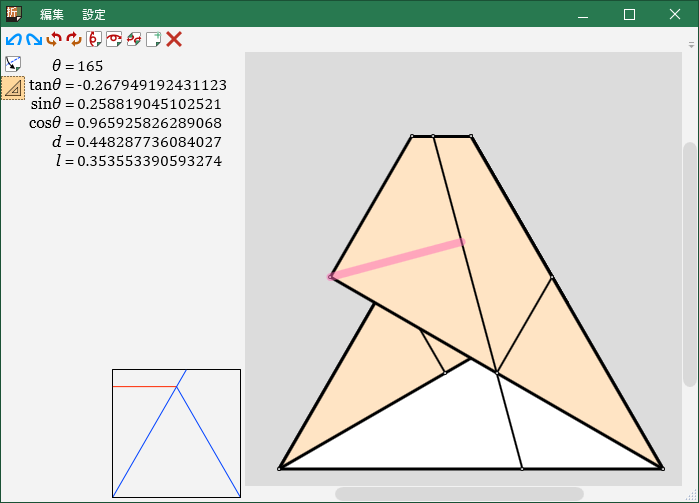
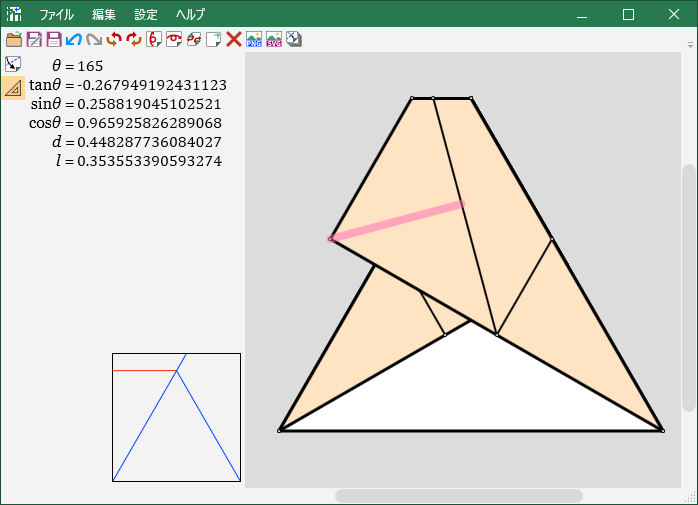
[update] manual

diff --git a/Documents/en/manual.md b/Documents/en/manual.md
@@ -1,6 +1,8 @@
 # Orimath
 
-target version: 0.6-beta.0
+TARGET VERSION: 1.0.0
+
+THIS IS TRANSLATED VERSION. ORIGINAL IS [JAPANESE](../ja/manual.md).
 
 * [Summary](#Summary)
 * [System requirements](#System-requirements)
@@ -31,22 +33,15 @@ Orimath is a math-focused *origami simulator.* You can fold paper with intuitive
 
 Orimath is not designed to be used primarily for making crease patterns and folding diagrams, but I plan to add useful features in the future.
 
-### Beta version supplement
-
-The available version is **beta version** .
-In the beta version, you cannot save or export files.
-
-In the official version, Orimath will support saving and loading projects, export in png format, svg format, and other software collaboration formats.
-
 ## System requirements
 
 | OS | Framework | Memory | Storage | CPU |
 | --- | --- | --- | --- | --- |
-| Windows 10 | .NET5 | > 60MB | > 5MB | unspecified |
+| Windows 10 | .NET5 | > 128MB | > 6MB | unspecified |
 
 # UI description
 
-![UI description](https://github.com/mino-ri/Orimath/blob/master/Documents/Images/view2.png?raw=true)
+![UI description](../Images/view2.png?raw=true)
 
 ### ① Origami view
 
@@ -58,7 +53,14 @@ Displays crease pattern of the current paper.
 
 ### ③ Measurement view
 
-Displays numerically information about selected point or line.
+Displays numerically information in the coordinate system with the lower left of the paper as the origin and the center of the paper as (0.5, 0.5) about selected point or line.
+
+| variable | means |
+| --- | --- |
+| *X, Y* | position of the selected point. |
+| *θ* | leftward angle with 0° at the horizontal of the selected line |
+| *d* | distance of the selected line from the origin |
+| *l* | length of the selected line |
 
 ### ④ Tools
 
@@ -68,11 +70,15 @@ Click on the buttons to switch tools.
 
 Click on the buttons to execute commands (e.g. undo, turn over).
 
+### ⑥ Operation navigation
+
+Displays operation navigations of folding tool.
+
 # Tools and commands
 
-## ![icon](https://github.com/mino-ri/Orimath/blob/master/Plugins/Orimath.Basics/Icons/fold.png?raw=true) Folding tool
+## ![icon](../../Plugins/Orimath.Basics/Icons/fold.png?raw=true) Folding tool
 
-![view](https://github.com/mino-ri/Orimath/blob/master/Documents/Images/view.png?raw=true)
+![view](../Images/view.png?raw=true)
 
 Use the left and right mouse buttons in combination with the `Ctrl` , `Shift` , and `Alt` keys. You can make a crease or fold the paper.
 
@@ -92,7 +98,7 @@ Numerically information about selection is displayed in **Measurement view**, it
 
 ### Make a crease (drag)
 
-![view](https://github.com/mino-ri/Orimath/blob/master/Documents/Images/fold1.gif?raw=true)
+![view](../Images/fold1.gif?raw=true)
 
 When you drag left from the *element* (a line or point) to the other element, a blue dotted line and an arrow will appear.
 If you release the mouse button while the **blue** dotted line is displayed, you **can** make a crease where the dotted line was. If you release the button when only the **gray** dotted line is displayed, you **cannot** make a crease.
@@ -101,26 +107,26 @@ In this way, Orimath shows the predicted fold as a fold diagram while dragging, 
 
 ### Fold (Shift key)
 
-![view](https://github.com/mino-ri/Orimath/blob/master/Documents/Images/fold3.png?raw=true)
+![view](../Images/fold3.png?raw=true)
 
 When you hold down `Shift` key and drag, a one-way blue arrow will appear. Hold down the `Shift` key and release the mouse button, to fold paper in the direction of the arrow.
 The folding direction is the same as the dragging direction.
 
 ### Make a crease in only the front-most paper (Ctrl key)
 
-![view](https://github.com/mino-ri/Orimath/blob/master/Documents/Images/fold2.png?raw=true)
+![view](../Images/fold2.png?raw=true)
 
 Hold down `Ctrl` key and drag, to make a crease in only the front-most paper.
 
 ### Fold only the front-most paper (Ctrl key + Shift key)
 
-![view](https://github.com/mino-ri/Orimath/blob/master/Documents/Images/fold4.png?raw=true)
+![view](../Images/fold4.png?raw=true)
 
 By combining the `Shift` key and `Ctrl` key, you can fold (instead of making a crease) only the front-most paper.
 
 ### Ignore alignments and fold freely (Alt key)
 
-![view](https://github.com/mino-ri/Orimath/blob/master/Documents/Images/fold5.png?raw=true)
+![view](../Images/fold5.png?raw=true)
 
 In Orimath, only aligned fold can be usually confirmed. Press `Alt` key to ignore alignments and fold freely.
 You can use it in combination with the `Shift` and/or `Ctrl` keys.
@@ -131,13 +137,13 @@ Drag left from element to element, to fold so that two elements overlap.
 
 #### Fold the point to the point
 
-![view](https://github.com/mino-ri/Orimath/blob/master/Documents/Images/axiom2.png?raw=true)
+![view](../Images/axiom2.png?raw=true)
 
 Drag left from point to point, to fold so that two points overlap.
 
 #### Fold the line to the line
 
-![view](https://github.com/mino-ri/Orimath/blob/master/Documents/Images/axiom3.png?raw=true)
+![view](../Images/axiom3.png?raw=true)
 
 Drag left from line to line, to fold so that two lines overlap.
 
@@ -146,26 +152,26 @@ The fold with the closest overlap to the dragged position will be selected from 
 
 #### Fold the point to the line
 
-![view](https://github.com/mino-ri/Orimath/blob/master/Documents/Images/axiom8.png?raw=true)
+![view](../Images/axiom8.png?raw=true)
 
 Drag left from point to line or line to point, to fold so that the point and line overlap.
 There are variations on this folding method, and the behavior changes when a point or line is selected before dragging.
 
 ---
 
-![view](https://github.com/mino-ri/Orimath/blob/master/Documents/Images/axiom5.png?raw=true)
+![view](../Images/axiom5.png?raw=true)
 
 When a point is selected, to fold **through that point** .
 
 ---
 
-![view](https://github.com/mino-ri/Orimath/blob/master/Documents/Images/axiom7.png?raw=true)
+![view](../Images/axiom7.png?raw=true)
 
 When a line is selected, to fold **perpendicular to that line** .
 
 ---
 
-![view](https://github.com/mino-ri/Orimath/blob/master/Documents/Images/axiom6.png?raw=true)
+![view](../Images/axiom6.png?raw=true)
 
 Hold down `Shift` key and click on the elements, you can select one point and one line at a time.
 In this state, drag from a point to a line, to fold so that [the selected point and line] and [the dragging point and line] overlap each other.
@@ -176,7 +182,7 @@ Drag right from element to element, to fold through the two elements.
 
 #### Fold through the two points
 
-![view](https://github.com/mino-ri/Orimath/blob/master/Documents/Images/axiom1.png?raw=true)
+![view](../Images/axiom1.png?raw=true)
 
 Drag right from point to point, to fold through the two points.
 
@@ -184,13 +190,13 @@ Drag right from point to point, to fold through the two points.
 
 #### Fold through the point and perpendicular to the line
 
-![view](https://github.com/mino-ri/Orimath/blob/master/Documents/Images/axiom4.png?raw=true)
+![view](../Images/axiom4.png?raw=true)
 
 Drag right from point to line or line to point, to fold through the point and perpendicular to the line.
 
-## ![icon](https://github.com/mino-ri/Orimath/blob/master/Plugins/Orimath.Basics/Icons/measure.png?raw=true) Measurement tool
+## ![icon](../../Plugins/Orimath.Basics/Icons/measure.png?raw=true) Measurement tool
 
-![view](https://github.com/mino-ri/Orimath/blob/master/Documents/Images/measure.png?raw=true)
+![view](../Images/measure.png?raw=true)
 
 By dragging points and lines on the paper, you can find their distances and intersections.
 
@@ -198,42 +204,67 @@ By dragging points and lines on the paper, you can find their distances and inte
 
 Click on the buttons lined up at the top of the window to perform operations.
 
-### ![icon](https://github.com/mino-ri/Orimath/blob/master/Plugins/Orimath.Basics/Icons/undo.png?raw=true) Undo (Ctrl+Z)
+
+### ![icon](../../Plugins/Orimath.Basics/Icons/open_file.png?raw=true) Open (Ctrl+O)
+
+Open a .orimath format file.
+
+### ![icon](../../Plugins/Orimath.Basics/Icons/save_file_as.png?raw=true) Save as (Ctrl+Shift+S)
+
+Save the current paper to a new .orimath format file.
+
+### ![icon](../../Plugins/Orimath.Basics/Icons/save_file.png?raw=true) Save (Ctrl+S)
+
+Save the current paper to the .orimath format file.
+
+### ![icon](../../Plugins/Orimath.Basics/Icons/undo.png?raw=true) Undo (Ctrl+Z)
 
 Undo last operation.
 
-### ![icon](https://github.com/mino-ri/Orimath/blob/master/Plugins/Orimath.Basics/Icons/redo.png?raw=true) Redo (Ctrl+Y)
+### ![icon](../../Plugins/Orimath.Basics/Icons/redo.png?raw=true) Redo (Ctrl+Y)
 
 Redo undone operation.
 
-### ![icon](https://github.com/mino-ri/Orimath/blob/master/Plugins/Orimath.Basics/Icons/rotate_l.png?raw=true) Rotate 90° left (Ctrl+←)
+### ![icon](../../Plugins/Orimath.Basics/Icons/rotate_l.png?raw=true) Rotate 90° left (Ctrl+←)
 
 Rotate the paper 90° to the left.
 
-### ![icon](https://github.com/mino-ri/Orimath/blob/master/Plugins/Orimath.Basics/Icons/rotate_r.png?raw=true) Rotate 90° right (Ctrl+→)
+### ![icon](../../Plugins/Orimath.Basics/Icons/rotate_r.png?raw=true) Rotate 90° right (Ctrl+→)
 
 Rotate the paper 90° to the right.
 
-### ![icon](https://github.com/mino-ri/Orimath/blob/master/Plugins/Orimath.Basics/Icons/turn_v.png?raw=true) Turn over vertically (Ctrl+↑)
+### ![icon](../../Plugins/Orimath.Basics/Icons/turn_v.png?raw=true) Turn over vertically (Ctrl+↑)
 
 Turn the paper over vertically.
 
-### ![icon](https://github.com/mino-ri/Orimath/blob/master/Plugins/Orimath.Basics/Icons/turn_h.png?raw=true) Turn over horizontally (Ctrl+↓)
+### ![icon](../../Plugins/Orimath.Basics/Icons/turn_h.png?raw=true) Turn over horizontally (Ctrl+↓)
 
 Turn the paper over horizontally.
 
-### ![icon](https://github.com/mino-ri/Orimath/blob/master/Plugins/Orimath.Basics/Icons/open_all.png?raw=true) Unfold all (Ctrl+E)
+### ![icon](../../Plugins/Orimath.Basics/Icons/open_all.png?raw=true) Unfold all (Ctrl+E)
 
 Unfold completely the folded paper. Also, paper return to its initial orientation.
 
-### ![icon](https://github.com/mino-ri/Orimath/blob/master/Plugins/Orimath.Basics/Icons/new_paper.png?raw=true) New paper (Ctrl+N)
+### ![icon](../../Plugins/Orimath.Basics/Icons/new_paper.png?raw=true) New paper (Ctrl+N)
 
 Discard the current paper and create a new one.
 Using this command, you can change the paper to **square, rectangle, or regular polygon** .
 
-### ![icon](https://github.com/mino-ri/Orimath/blob/master/Plugins/Orimath.Basics/Icons/delete.png?raw=true) Reset (Ctrl+Delete)
+### ![icon](../../Plugins/Orimath.Basics/Icons/delete.png?raw=true) Reset (Ctrl+Delete)
 
 Remove all creases and folds, and return to a clean paper.
+
+### ![icon](../../Plugins/Orimath.Basics.View/Icons/export_png.png?raw=true) Export in png image
+
+Export the current paper in a png image.
+
+### ![icon](../../Plugins/Orimath.Basics.View/Icons/export_svg.png?raw=true) Export in svg image
+
+Export the current paper in a svg image.
+
+### ![icon](../../Plugins/Orimath.Basics.View/Icons/inst_list.png?raw=true) Show instructions (Ctrl+D)
+
+Show the origami instructions of the current paper. Diagrams is the same as that is displayed on during the fold operation.
 
 ## Other menu items
 
